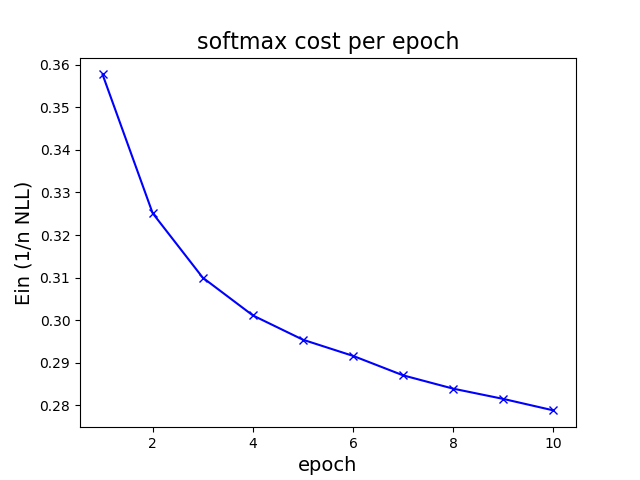
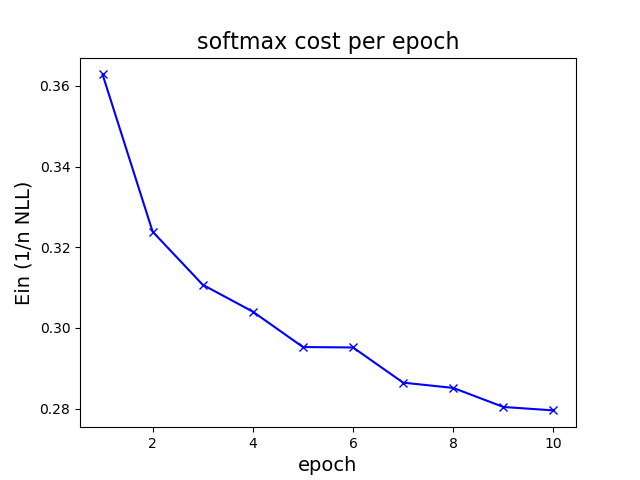
nu med softmax_hint.py

diff --git a/Aflevering1/softmax_hint.py b/Aflevering1/softmax_hint.py
@@ -28,11 +28,9 @@ def softmax(X):
     ### YOUR CODE HERE no for loops please
     e = np.exp(X)
     denoms = sum(e.T)
-    res = np.array([e[i] / denoms[i] for i in range(len(X))])
+    res = np.array((e.T / denoms).T)
     ### END CODE
     return res
-    
-    
     
 def one_in_k_encoding(vec, k):
     """ One-in-k encoding of vector to k classes 
@@ -103,8 +101,10 @@ class SoftmaxClassifier():
         for i in range(epochs):
             print("starting epoch: ", i)
             p = np.random.permutation(range(len(Y)))
+            Xp = X[p]
+            Yp = Y[p]
             for j in range(int( len(Y) / batch_size + 0.5)):
-                W = W - lr * self.cost_grad(np.array([X[i] for i in p[b*j : b*(j + 1)]]), np.array([Y[i] for i in p[b*j : b * (j + 1)]]), W)[1]
+                W = W - lr * self.cost_grad(Xp[b*j : b*(j + 1)], np.array(Yp[b*j : b * (j + 1)]), W)[1]
             print("calculating history for epoch: ", i)
             history = history + [self.cost_grad(X, Y, W, 0)[0]]
         ### END CODE
